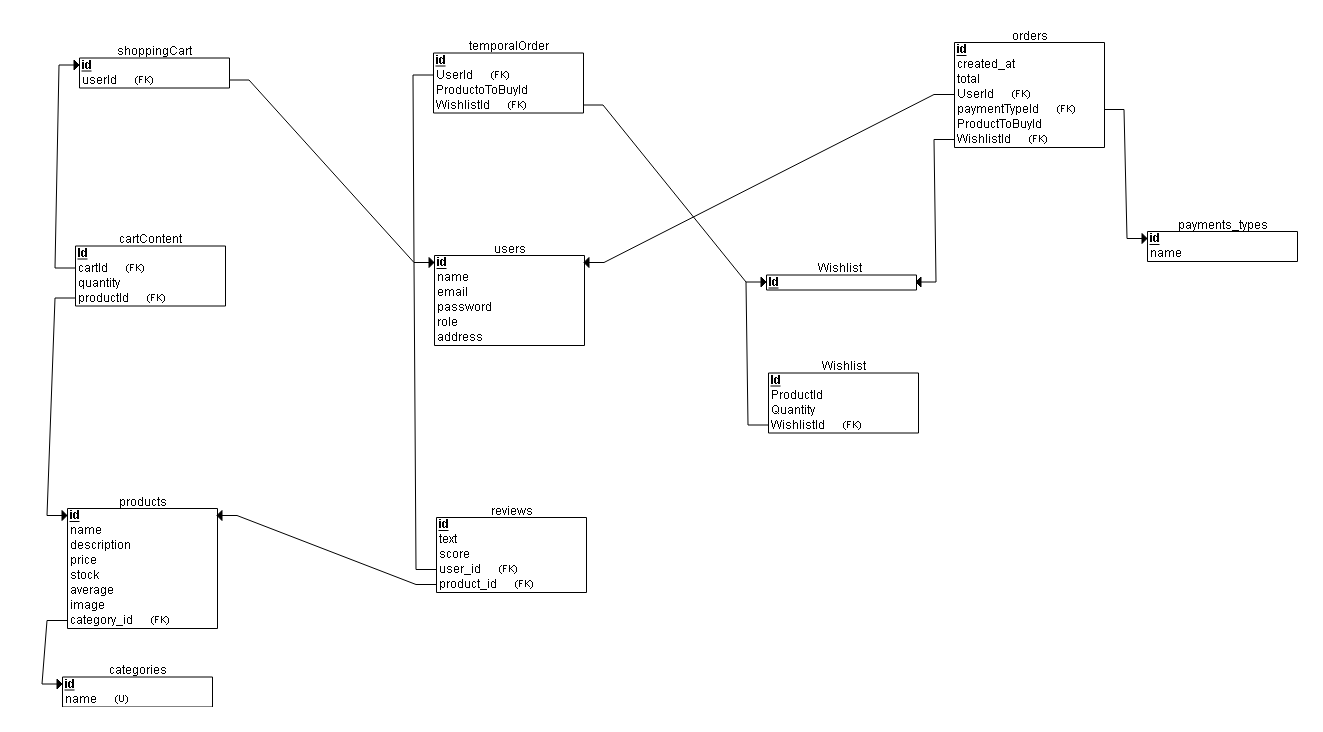
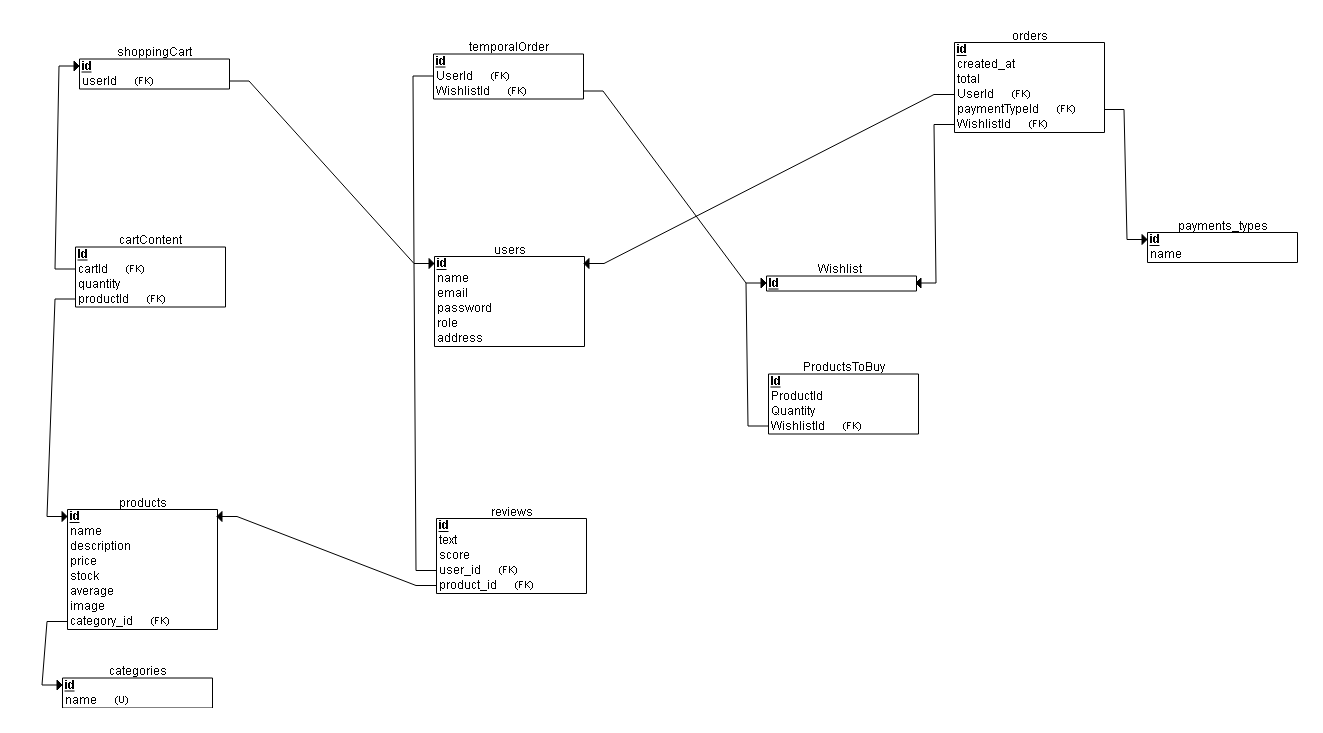
nuevos modelos para guardar los productos que se van a comprar y sus respectivos repositorios

diff --git a/backend/Server/Server/UnitOfWork.cs b/backend/Server/Server/UnitOfWork.cs
@@ -19,6 +19,10 @@ public class UnitOfWork
     private TemporalOrderRepository _temporalOrderRepository;
     private CartContentRepository _cartContentRepository;
 
+    private WishlistRepository _wishlistRepository;
+    private ProductsToBuyRepository _productsToBuyRepository;
+
+
 
     public OrderRepository OrderRepository => _orderRepository ??= new OrderRepository(_context);
     public PaymentsTypeRepository PaymentsTypeRepository => _paymentsTypeRepository ??= new PaymentsTypeRepository(_context);
@@ -31,6 +35,10 @@ public class UnitOfWork
     public ShoppingCartRepository ShoppingCartRepository => _shoppingCartRepository ??= new ShoppingCartRepository(_context);
     public TemporalOrderRepository TemporalOrderRepository => _temporalOrderRepository ??= new TemporalOrderRepository(_context);
     public CartContentRepository CartContentRepository => _cartContentRepository ??= new CartContentRepository(_context);
+
+
+    public WishlistRepository WishlistRepository => _wishlistRepository ??= new WishlistRepository(_context);
+    public ProductsToBuyRepository ProductsToBuyRepository => _productsToBuyRepository ??= new ProductsToBuyRepository(_context);
 
 
     public UnitOfWork(FarminhouseContext context)

diff --git a/backend/Server/Server/Models/Order.cs b/backend/Server/Server/Models/Order.cs
@@ -10,7 +10,7 @@ public class Order
     public int Total { get; set; }
     public int PaymentTypeId { get; set; }
     public PaymentsType PaymentsType { get; set; }
-    public int ProductsToBuyId { get; set; }
-    public ProductsToBuy ProductsToBuy { get; set; }
+    public int WishlistId { get; set; }
+    public Wishlist Wishlist { get; set; }
 
 }

diff --git a/backend/Server/Server/FarminhouseContext.cs b/backend/Server/Server/FarminhouseContext.cs
@@ -23,6 +23,10 @@ public class FarminhouseContext : DbContext
 
     public DbSet<TemporalOrder> TemporalOrder { get; set; }
 
+    public DbSet<Wishlist> Wishlists { get; set; }
+    public DbSet<ProductsToBuy> ProductsToBuys { get; set; }
+
+
 
     protected override void OnConfiguring(DbContextOptionsBuilder optionsBuilder)
     {

diff --git a/backend/Server/Server/Models/TemporalOrder.cs b/backend/Server/Server/Models/TemporalOrder.cs
@@ -8,8 +8,8 @@ namespace Server.Models
         public int UserId { get; set; }
         public User User { get; set; }
 
-        public int ProductToById { get; set; }
-        public ProductsToBuy ProductsToBuy { get; set; }
+        public int WishlistId { get; set; }
+        public Wishlist Wishlist { get; set; }
 
 
     }

diff --git a/backend/Server/Server/Repositories/ProductsToBuyRepository.cs b/backend/Server/Server/Repositories/ProductsToBuyRepository.cs
@@ -1,0 +1,16 @@
+using Server.Models;
+using Server.Repositories.Base;
+using Stripe.Climate;
+
+namespace Server.Repositories
+{
+    public class ProductsToBuyRepository : Repository<ProductsToBuy, int>
+    {
+        public ProductsToBuyRepository(FarminhouseContext context) : base(context) { }
+
+
+
+
+
+    }
+}

diff --git a/backend/Server/Server/Models/ProductsToBuy.cs b/backend/Server/Server/Models/ProductsToBuy.cs
@@ -5,5 +5,10 @@
 
         public int Id { get; set; }
         public int ProductId { get; set; }
+        public int Quantity { get; set; }
+        public Product Product { get; set; }
+
+        public int WishlistId { get; set; }
+        public Wishlist Wishlist { get; set; }
     }
 }

diff --git a/backend/Server/Server/Repositories/WishlistRepository.cs b/backend/Server/Server/Repositories/WishlistRepository.cs
@@ -1,0 +1,12 @@
+using Server.Models;
+using Server.Repositories.Base;
+
+namespace Server.Repositories
+{
+    public class WishlistRepository : Repository<Wishlist, int>
+    {
+        public WishlistRepository(FarminhouseContext context) : base(context) { }
+
+
+    }
+}

diff --git a/backend/Server/Server/Models/Wishlist.cs b/backend/Server/Server/Models/Wishlist.cs
@@ -2,5 +2,7 @@
 {
     public class Wishlist
     {
+        public int Id { get; set; }
+
     }
 }
